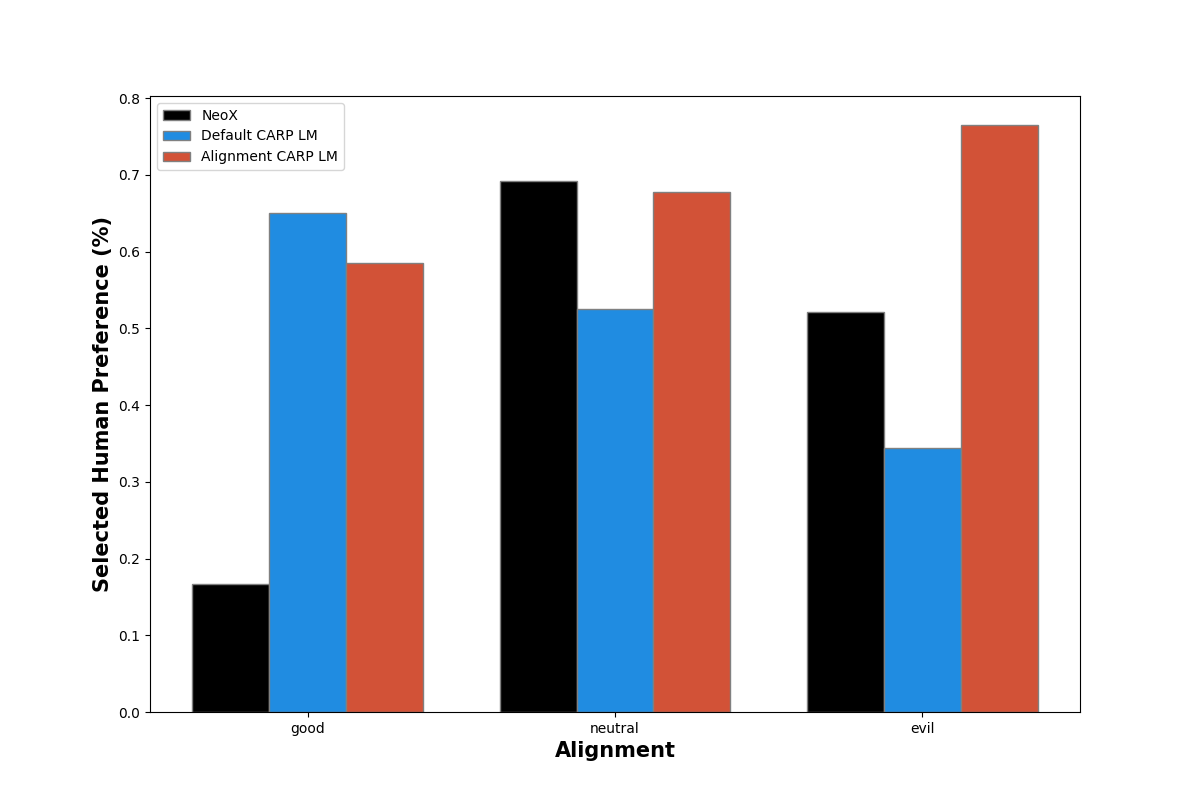
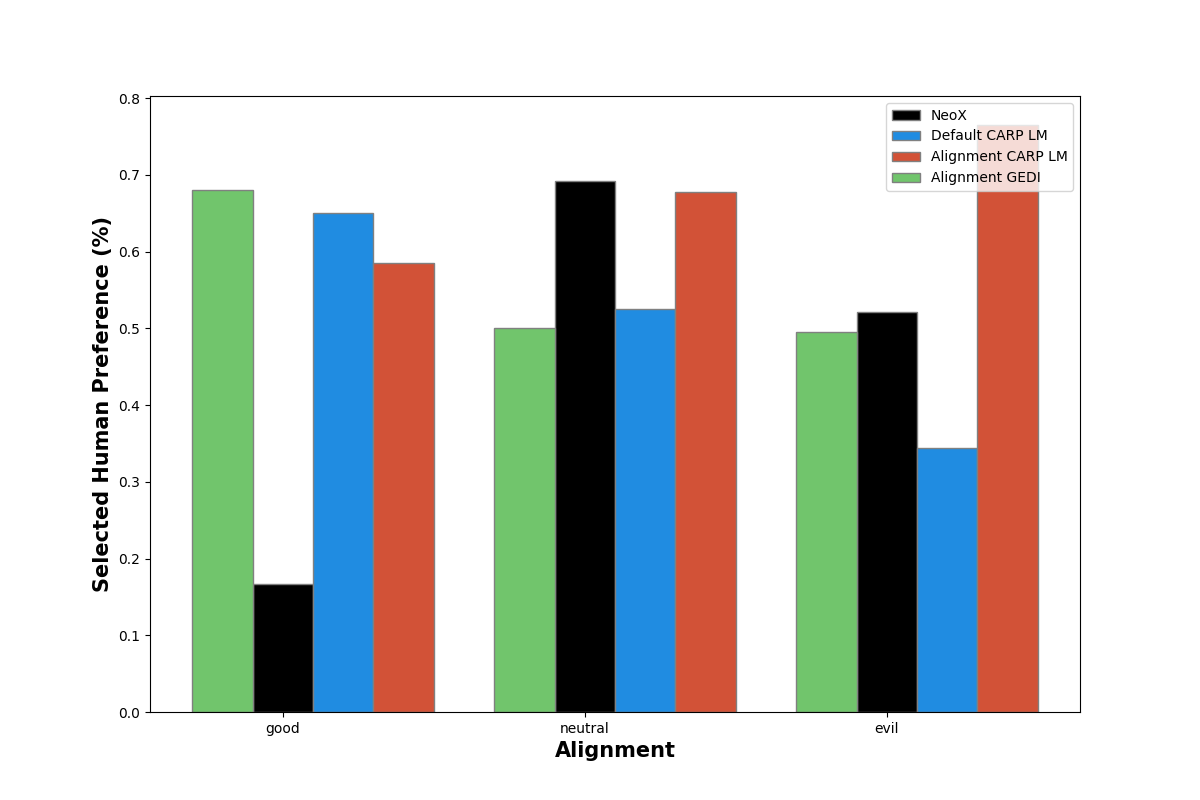
agreement computations

diff --git a/analysis.py b/analysis.py
@@ -1,21 +1,8 @@
-from numpy import NaN
 import numpy as np
-import pandas as pd
+import matplotlib.pyplot as plt
 import json
 
-df = pd.read_csv("my_data.csv")
-df = df.drop(labels=25, axis=0)
-#print(df)
-with open("scratch.txt",'w') as f:
-	for column in df.columns:
-		f.write(str(column)+'\n')
 
-#QID8 - QID99 are alignment
-#QID100 - QID311 are content
-#Q312 and larger are qualitative
-#_TEXT questions can be discarded
-
-models = ['coop', 'carp', 'neox']
 labels = ['good', 'neutral', 'evil',
 		  'family', 'music', 'accident',
 		  'religion', 'imagery', 'fighting',
@@ -25,84 +12,53 @@ topics = ['family', 'music', 'accident',
 		  'religion', 'imagery', 'fighting',
 		  'romance', 'horror', 'own response']
 
-def get_num(name):
-	start = -1
-	end = len(name)
-	for ind, char in enumerate(name):
-		#print(ind, char)
-		if start < 0 and char.isnumeric():
-			start = ind
-		if start >= 0 and not char.isnumeric():
-			end = ind
-			break
-	num = name[start:end]
-	#print(num)
-	return int(num)
+with open('carp_results.csv', 'r') as f:
+    carp_results = json.load(f)
+with open('gedi_results.csv', 'r') as f:
+    gedi_results = json.load(f)
+with open('processed_carp_data.csv', 'r') as f:
+    carp_data = json.load(f)
+with open('processed_gedi_data.csv', 'r') as f:
+    gedi_data = json.load(f)
+with open('carp_agreements.json', 'r') as f:
+    carp_agreements = json.load(f)
+with open('gedi_agreements.json', 'r') as f:
+    gedi_agreements = json.load(f)
 
-filtered_df = []
-for col in df.columns:
-	num = get_num(col)
-	# Ignore _TEXT columns
-	if "TEXT" in col:
-		continue
-	if (8 <= num and num < 100) or (num > 101 and num <= 311):
-		filtered_df.append(col)
+carp_results['gedi'] = gedi_results
+results = carp_results
+carp_data['gedi'] = gedi_data
+data = carp_data
+carp_agreements['gedi'] = gedi_agreements
+agreements = carp_agreements
 
-# 92 total alignment questions
+cnt = 0
+cum = 0
+for model in agreements:
+    if model != '':
+        for label in agreements[model]:
+            cum += sum(agreements[model][label])
+            cnt += len(agreements[model][label])
+print('global_agreemen', cum / cnt)
 
+sliced_agreements = {}
+for model in agreements:
+    cnt = 0
+    cum = 0
+    for label in agreements[model]:
+        cum += sum(agreements[model][label])
+        cnt += len(agreements[model][label])
+    agreement = cum / cnt
+    sliced_agreements[model] = agreement
 
-data = {model:
-			{label:
-				[]
-			for label in labels}
-		for model in models}
-line_data = []
-with open('examples.jsonl','r') as f:
-	for line in f:
-		question = json.loads(line)
-		line_data.append(question)
+for label in agreements['gedi']:
+    cnt = 0
+    cum = 0
+    for model in agreements:
+        if label in agreements[model]:
+            cum += sum(agreements[model][label])
+            cnt += len(agreements[model][label])
+    agreement = cum / cnt
+    sliced_agreements[label] = agreement
 
-assert(len(filtered_df) == len(line_data))
-
-num_to_label = {
-	'alignment': {1: 'good', 2: 'neutral', 3: 'evil'},
-	'topic': {(ind+1): topic for ind, topic in enumerate(topics)}
-}
-
-for qualtrics_col, json_q in zip(filtered_df, line_data):
-	label = json_q['label']
-	model = json_q['model']
-	for entry in df[qualtrics_col]:
-		#print(float(entry))
-		if not np.isnan(float(entry)):
-			entry = int(entry)
-			if label in topics:
-				topic_entry = num_to_label['topic'][entry]
-			elif label in alignments:
-				topic_entry = num_to_label['alignment'][entry]
-			else:
-				raise NotImplemented
-			data[model][label].append(topic_entry)
-
-print(json.dumps(data, indent=4, sort_keys=True))
-
-results = {model:
-			{label:
-				0.0
-			for label in labels}
-		for model in models}
-
-for model in data:
-	for label in data[model]:
-		entries = data[model][label]
-		num_entries = len(entries)
-		cnt = sum([entry == label for entry in entries])
-		if num_entries == 0:
-			acc = 0.0
-		else:
-			acc = cnt/num_entries
-		results[model][label] = acc
-
-print(json.dumps(results, indent=4, sort_keys=True))
-with open('carp_results.csv', 'w') as f:
-	json.dump(results, f)
+print(json.dumps(sliced_agreements, indent=4))

diff --git a/carp_processing.py b/carp_processing.py
@@ -1,0 +1,136 @@
+from numpy import NaN
+import numpy as np
+import pandas as pd
+import json
+
+df = pd.read_csv("my_data.csv")
+df = df.drop(labels=25, axis=0)
+#print(df)
+with open("scratch.txt",'w') as f:
+	for column in df.columns:
+		f.write(str(column)+'\n')
+
+#QID8 - QID99 are alignment
+#QID100 - QID311 are content
+#Q312 and larger are qualitative
+#_TEXT questions can be discarded
+
+models = ['coop', 'carp', 'neox']
+labels = ['good', 'neutral', 'evil',
+		  'family', 'music', 'accident',
+		  'religion', 'imagery', 'fighting',
+		  'romance', 'horror']
+alignments = ['good', 'neutral', 'evil']
+topics = ['family', 'music', 'accident',
+		  'religion', 'imagery', 'fighting',
+		  'romance', 'horror', 'own response']
+
+def get_num(name):
+	start = -1
+	end = len(name)
+	for ind, char in enumerate(name):
+		#print(ind, char)
+		if start < 0 and char.isnumeric():
+			start = ind
+		if start >= 0 and not char.isnumeric():
+			end = ind
+			break
+	num = name[start:end]
+	#print(num)
+	return int(num)
+
+filtered_df = []
+for col in df.columns:
+	num = get_num(col)
+	# Ignore _TEXT columns
+	if "TEXT" in col:
+		continue
+	if (8 <= num and num < 100) or (num > 101 and num <= 311):
+		filtered_df.append(col)
+
+# 92 total alignment questions
+
+
+data = {model:
+			{label:
+				[]
+			for label in labels}
+		for model in models}
+line_data = []
+with open('examples.jsonl','r') as f:
+	for line in f:
+		question = json.loads(line)
+		line_data.append(question)
+
+assert(len(filtered_df) == len(line_data))
+
+num_to_label = {
+	'alignment': {1: 'good', 2: 'neutral', 3: 'evil'},
+	'topic': {(ind+1): topic for ind, topic in enumerate(topics)}
+}
+
+question_agreements = {model:{label:[] for label in data[model]} for model in data}
+
+for qualtrics_col, json_q in zip(filtered_df, line_data):
+	label = json_q['label']
+	model = json_q['model']
+	entries = [int(entry) for entry in df[qualtrics_col] if not np.isnan(float(entry))]
+	if len(entries) > 0:
+		mode = max(set(entries), key = entries.count)
+		mode_count = entries.count(mode)
+		agreement = mode_count / len(entries)
+		question_agreements[model][label].append(agreement)
+		for entry in entries:
+			#print(float(entry))
+			if not np.isnan(float(entry)):
+				entry = int(entry)
+				if label in topics:
+					topic_entry = num_to_label['topic'][entry]
+				elif label in alignments:
+					topic_entry = num_to_label['alignment'][entry]
+				else:
+					raise NotImplemented
+				data[model][label].append(topic_entry)
+
+print(json.dumps(data, indent=4, sort_keys=True))
+with open('processed_carp_data.csv', 'w') as f:
+	json.dump(data, f)
+with open('carp_agreements.json', 'w') as f:
+	json.dump(question_agreements, f)
+
+# What percentage of the time do annotators agree with each other on the majority choice
+# (Can be higher even if majority choice is not the correct choice
+cnt = 0
+cum = 0
+for col in filtered_df:
+	entries = [int(entry) for entry in df[col] if not np.isnan(float(entry))]
+	if len(entries) > 0:
+		mode = max(set(entries), key = entries.count)
+		mode_count = entries.count(mode)
+		#print(mode_count / len(entries))
+		cnt += 1
+		cum += mode_count / len(entries)
+print('global avg agreement', cum/cnt)
+print(cnt)
+
+# Compute correct percentage
+results = {model:
+			{label:
+				0.0
+			for label in labels}
+		for model in models}
+
+for model in data:
+	for label in data[model]:
+		entries = data[model][label]
+		num_entries = len(entries)
+		cnt = sum([entry == label for entry in entries])
+		if num_entries == 0:
+			acc = 0.0
+		else:
+			acc = cnt/num_entries
+		results[model][label] = acc
+
+print(json.dumps(results, indent=4, sort_keys=True))
+with open('carp_results.csv', 'w') as f:
+	json.dump(results, f)

diff --git a/plotting.py b/plotting.py
@@ -26,7 +26,7 @@ carp_results['gedi'] = gedi_results
 results = carp_results
 
 # set width of bar
-barWidth = 0.25
+barWidth = 0.2
 fig = plt.subplots(figsize =(12, 8))
 
 # set height of bar
@@ -58,13 +58,13 @@ br4 = [x + barWidth for x in br3]
 
 
 # Make the plot
-plt.bar(br1, ALIGNMENT_NEOX, color ='#000000', width = barWidth,
+plt.bar(br2, ALIGNMENT_NEOX, color ='#000000', width = barWidth,
         edgecolor ='grey', label ='NeoX')
-plt.bar(br2, ALIGNMENT_CARP, color ='#208ce1', width = barWidth,
+plt.bar(br3, ALIGNMENT_CARP, color ='#208ce1', width = barWidth,
         edgecolor ='grey', label ='Default CARP LM')
-plt.bar(br3, ALIGNMENT_COOP, color ='#d25237', width = barWidth,
+plt.bar(br4, ALIGNMENT_COOP, color ='#d25237', width = barWidth,
         edgecolor ='grey', label ='Alignment CARP LM')
-plt.bar(br4, ALIGNMENT_GEDI, color ='#71c56c', width = barWidth,
+plt.bar(br1, ALIGNMENT_GEDI, color ='#71c56c', width = barWidth,
         edgecolor ='grey', label ='Alignment GEDI')
 
 
@@ -74,7 +74,7 @@ plt.ylabel('Selected Human Preference (%)', fontweight ='bold', fontsize = 15)
 plt.xticks([r + barWidth for r in range(len(ALIGNMENT_CARP))],
         alignments)
 
-order = [1,2,0,3]
+order = [3,1,2,0]
 legend_names = ['Default CARP LM', ]
 plt.legend()
 plt.show()
@@ -90,15 +90,16 @@ br3 = [x + barWidth for x in br2]
 br4 = [x + barWidth for x in br3]
 
 # Make the plot
-plt.bar(br1, TOPIC_NEOX, color ='#000000', width = barWidth,
+plt.bar(br1, TOPIC_GEDI, color ='#71c56c', width = barWidth,
+        edgecolor ='grey', label ='Topic GEDI')
+plt.bar(br2, TOPIC_NEOX, color ='#000000', width = barWidth,
         edgecolor ='grey', label ='NeoX')
-plt.bar(br2, TOPIC_CARP, color ='#208ce1', width = barWidth,
+plt.bar(br3, TOPIC_CARP, color ='#208ce1', width = barWidth,
         edgecolor ='grey', label ='Default CARP LM')
 
-plt.bar(br3, TOPIC_COOP, color ='#d25237', width = barWidth,
+plt.bar(br4, TOPIC_COOP, color ='#d25237', width = barWidth,
         edgecolor ='grey', label ='Pseudo CARP LM')
-plt.bar(br3, ALIGNMENT_GEDI, color ='#71c56c', width = barWidth,
-        edgecolor ='grey', label ='Alignment GEDI')
+
 
 
 # Adding Xticks

diff --git a/gedi_processing.py b/gedi_processing.py
@@ -60,21 +60,31 @@ num_to_label = {
 }
 
 print(num_to_label)
-
+agreements = {label: [] for label in data}
 for qualtrics_col, label in zip(filtered_df, col_labels):
-	for entry in df[qualtrics_col]:
-		if not np.isnan(float(entry)):
-			entry = int(entry)
-			if label in topics:
-				topic_entry = num_to_label['topic'][entry]
-			elif label in alignments:
-				topic_entry = num_to_label['alignment'][entry]
-			else:
-				print(label)
-				raise NotImplemented
-			data[label].append(topic_entry)
+	entries = [int(entry) for entry in df[qualtrics_col] if not np.isnan(float(entry))]
+	if len(entries) > 0:
+		mode = max(set(entries), key = entries.count)
+		mode_count = entries.count(mode)
+		agreement = mode_count / len(entries)
+		agreements[label].append(agreement)
+		for entry in entries:
+			if not np.isnan(float(entry)):
+				entry = int(entry)
+				if label in topics:
+					topic_entry = num_to_label['topic'][entry]
+				elif label in alignments:
+					topic_entry = num_to_label['alignment'][entry]
+				else:
+					print(label)
+					raise NotImplemented
+				data[label].append(topic_entry)
 
 #print(json.dumps(data, indent=4, sort_keys=True))
+with open('processed_gedi_data.csv', 'w') as f:
+	json.dump(data, f)
+with open('gedi_agreements.json', 'w') as f:
+	json.dump(agreements, f)
 
 results = {label:
 				0.0
